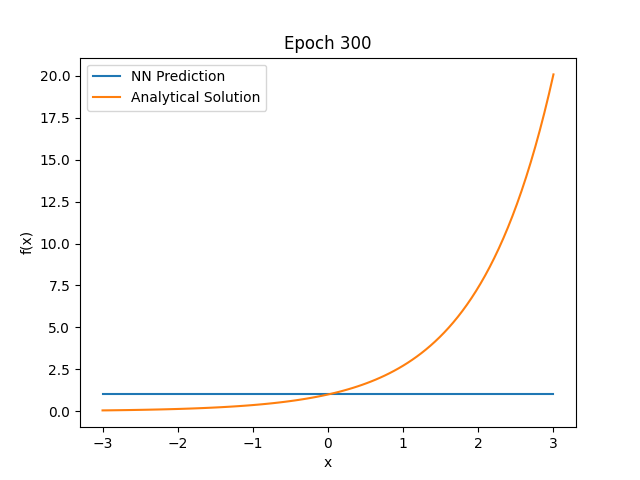
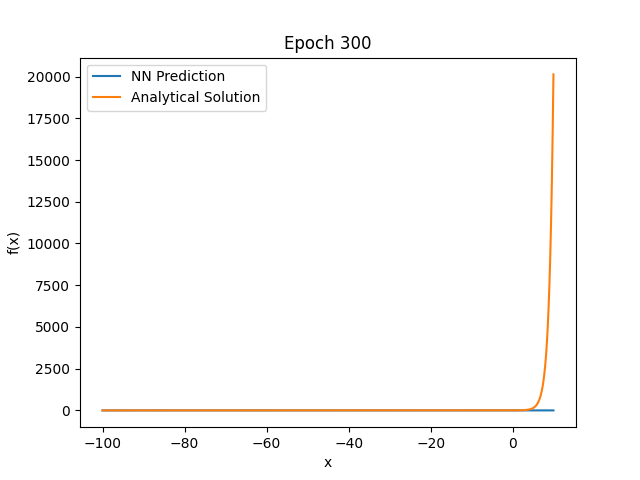
correct save_plot

diff --git a/model/model.py b/model/model.py
@@ -18,12 +18,14 @@ Unique analytical solution is f = exp.
 import os
 import torch
 
+from utils.utility import num_inputs
+from utils.homeomorphisms import input_homeo
 from torch.autograd import grad
-from utils.plot import save_plot, create_gif
 from model.encoding import fourier
-
-from torch import (
-    tensor,
+from torch import tensor
+from utils.plot import (
+    save_plot,
+    create_gif,
 )
 from torch.nn.init import (
     zeros_, 
@@ -52,16 +54,16 @@ class PINN(Module):
     one_tensor = tensor([1.0]).view(-1, 1)
 
     def __init__(
-            self: 'PINN',
-            input_space: Tensor,
-            nn_params: Dict,
-            training_params: Dict,
-            loss_func_name: str,
+        self: 'PINN',
+        input_space: Tensor,
+        nn_params: Dict,
+        training_params: Dict,
+        loss_func_name: str,
     ) -> None:
         super(PINN, self).__init__()
 
         # Input space
-        self.input_space = input_space
+        self.x = input_space.requires_grad_()
 
         # NN parameters
         self.hidden_dim = nn_params.get('hidden_dim')
@@ -95,19 +97,22 @@ class PINN(Module):
             - fourier: [n, 1] -> [n, m]
             - NN: [n, m] -> [n, 1]
         '''
-        return self.network(
-            fourier(
-                self.input_homeo(x),
-                dim=self.hidden_dim,
-            ),
-        )
+        return self.network(input_homeo(x))
+
+#        return self.network(
+#            fourier(
+#                input_homeo(x),
+#                dim=self.hidden_dim,
+#            ),
+#        )
 
     def construct_nn(self) -> None:
         # Define constants
+        input_dim = 1
         output_dim = 1
         
         # Construct NN
-        layers = [Linear(self.hidden_dim, self.hidden_dim), Tanh()]
+        layers = [Linear(input_dim, self.hidden_dim), Tanh()]
         for _ in range(self.num_hidden_layers-1):
             layers.append(Linear(self.hidden_dim, self.hidden_dim))
             layers.append(Tanh())
@@ -139,12 +144,8 @@ class PINN(Module):
         for epoch in range(self.nb_epochs):
             self.optimizer.zero_grad()
             
-            # Sample input data
-            x = self.input_space
-            x.requires_grad_(True)
-
             # Compute loss
-            loss, y = loss_function(x)
+            loss, y = loss_function(self.x)
 
             # Backpropagation
             loss.backward(retain_graph=True)
@@ -152,7 +153,7 @@ class PINN(Module):
             
             if epoch % 100 == 0:
                 print(f'Epoch {epoch}, Loss: {loss.item()}')
-                save_plot(epoch, x, y)
+                save_plot(epoch, self.x, y)
 
         # Crate Gif with saved plots
         create_gif()
@@ -175,7 +176,7 @@ class PINN(Module):
             self.one_tensor,
         )
 
-        return physics_loss + (boundary_loss * self.num_inputs(f)), f
+        return physics_loss + (boundary_loss * num_inputs(f)), f
 
     def cosinus_loss(self, x: Tensor) -> float:
         f = self.forward(x)
@@ -205,7 +206,7 @@ class PINN(Module):
             self.one_tensor
         )
 
-        return physics_loss + (boundary_loss * self.num_inputs(f)), f
+        return physics_loss + (boundary_loss * num_inputs(f)), f
 
 
 if __name__ == '__main__':

diff --git a/model/encoding.py b/model/encoding.py
@@ -16,8 +16,7 @@ import torch
 from torch import Tensor
 from torch.nn import Parameter
 
-from utils.decorators import validate
-
+from utils.utility import num_inputs
 from torch import (
     cat,
     cos,
@@ -41,9 +40,8 @@ def fourier(x: Tensor, dim: int = 10, scale: float = 1.0) -> Tensor:
     f is a learnable parameter.
     In 1D, <f, x> = f * x is in the range [0, 1].
     '''
-    print(x.shape)
-    num_features = x.shape[1]
-    kernel = scale * Parameter(torch.randn(num_features, dim // 2), requires_grad=True)
+
+    kernel = scale * Parameter(torch.randn(num_inputs(x), dim // 2), requires_grad=True)
     x_proj = pi * x @ kernel
 
     return cat([cos(x_proj), sin(x_proj)], dim=1)

diff --git a/utils/plot.py b/utils/plot.py
@@ -47,8 +47,11 @@ def save_plot(epoch: int, x: Tensor, y: Tensor) -> None:
     os.makedirs(output_dir, exist_ok=True)
 
     # Convert tensors to numpy arrays
-    x = torch.linspace(-3, 3, 100).view(-1, 1).numpy()
+    x = x.detach().numpy()
     y = y.detach().numpy()
+    mask = x < 10
+    x = x[mask]
+    y = y[mask]
 
     plt.figure()
     plt.plot(x, y, label='NN Prediction')

diff --git a/utils/utility.py b/utils/utility.py
@@ -1,3 +1,6 @@
+'''
+Utility functions.
+'''
 
 from torch import Tensor
 
